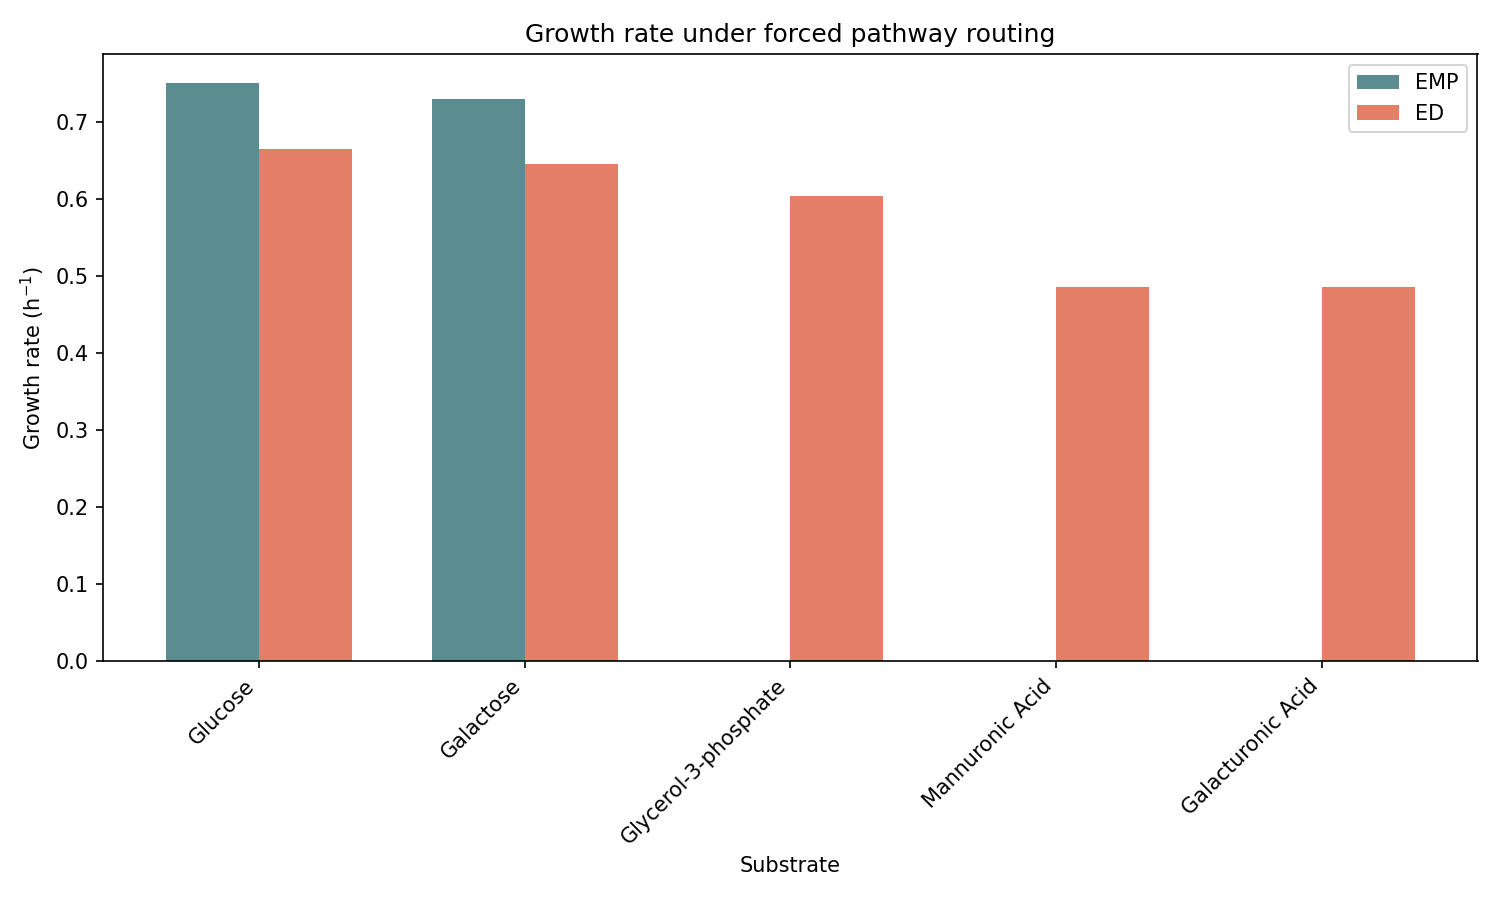
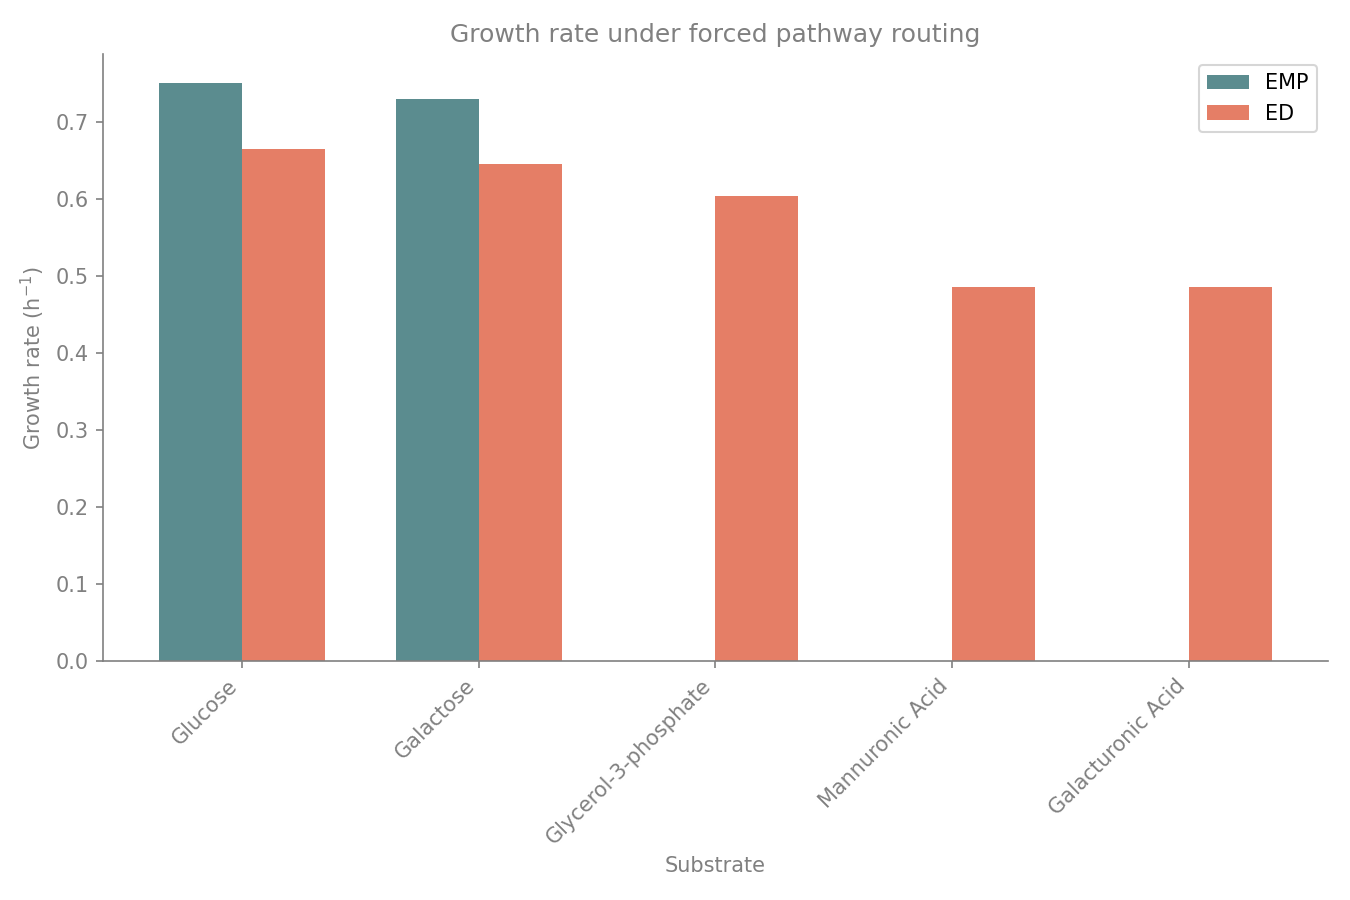
feat: use plot style on fored tradeoff

diff --git a/simulations/emp_vs_ed/tradeoff_on_different_substrates/plot_forced_routing.py b/simulations/emp_vs_ed/tradeoff_on_different_substrates/plot_forced_routing.py
@@ -12,7 +12,7 @@ OUT_PATH.mkdir(exist_ok=True)
 
 # Import plot_styles.py from the root of the repo
 sys.path.append(str(REPO_ROOT))
-from plot_styles import summer_colors
+from plot_styles import set_plot_style, summer_colors
 
 # Set some parameters for the plot
 width = 0.35
@@ -31,11 +31,12 @@ ed_vals = results_df["ed"].tolist()
 x = np.arange(len(substrates))
 
 # Plot the data
-fig, ax = plt.subplots(figsize=(10, 6))
+fig, ax = plt.subplots(figsize=(9, 6))
 bars_emp = ax.bar(x - width / 2, emp_vals, width, label="EMP", color=emp_colors)
 bars_ed = ax.bar(x + width / 2, ed_vals, width, label="ED", color=ed_colors)
 
 # Plot style
+set_plot_style(ax)
 ax.set_xlabel("Substrate")
 ax.set_ylabel("Growth rate (h$^{-1}$)")
 ax.set_title("Growth rate under forced pathway routing")
